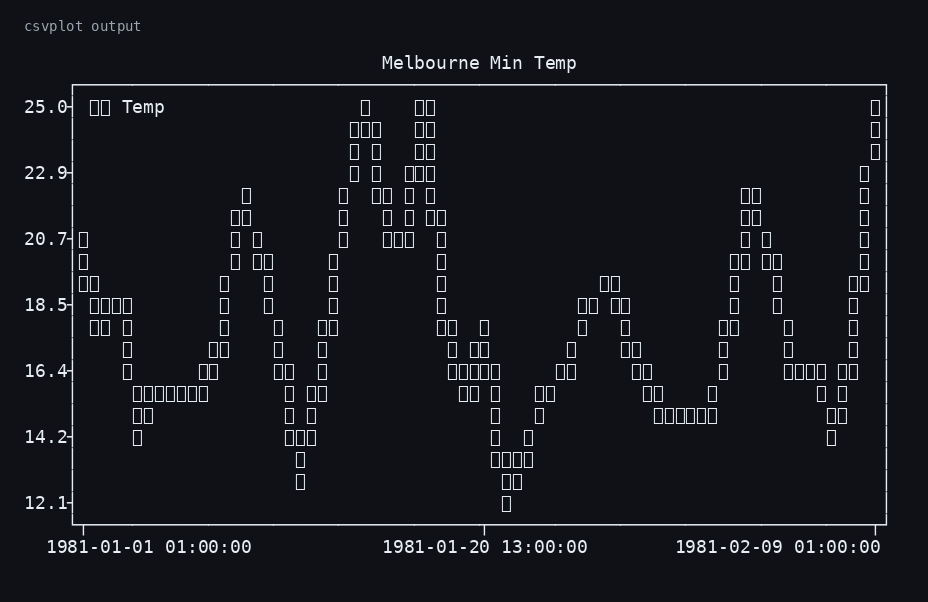
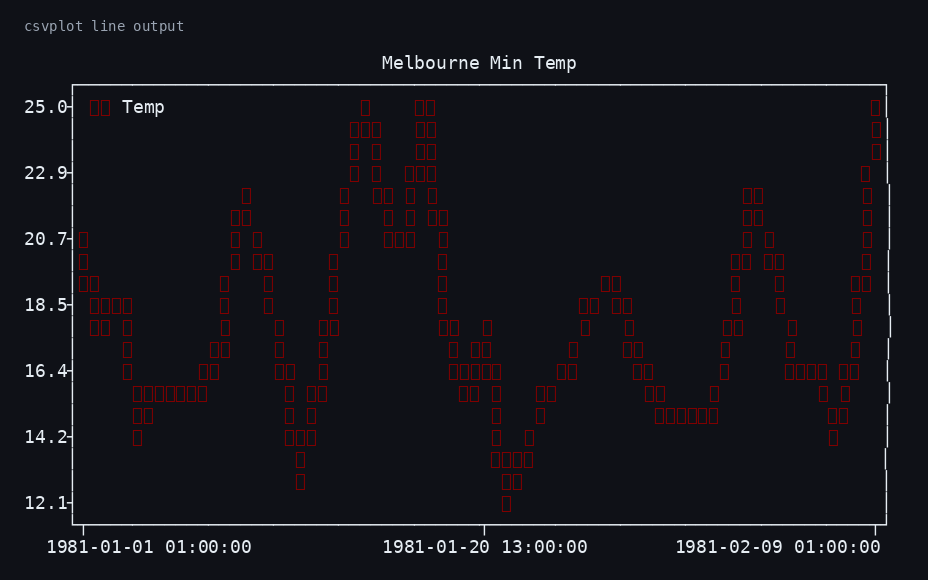
feat(images): render ansi colors in generated png artifacts

diff --git a/scripts/render_terminal_png.py b/scripts/render_terminal_png.py
@@ -1,12 +1,141 @@
 #!/usr/bin/env python3
-"""Render plain terminal text output into a dark-themed PNG image."""
+"""Render terminal text output (including ANSI colors) into a dark-themed PNG image."""
 
 from __future__ import annotations
 
 import argparse
+import re
 from pathlib import Path
 
 from PIL import Image, ImageDraw, ImageFont
+
+ANSI_RE = re.compile(r"\x1b\[([0-9;]*)m")
+DEFAULT_FG = "#e6edf3"
+ANSI_BASE_COLORS = {
+    30: "#0f1117",
+    31: "#ff6b6b",
+    32: "#50d890",
+    33: "#ffd166",
+    34: "#74c0fc",
+    35: "#c77dff",
+    36: "#64dfdf",
+    37: "#f1f3f5",
+    90: "#6c757d",
+    91: "#ff8787",
+    92: "#69db7c",
+    93: "#ffe066",
+    94: "#91a7ff",
+    95: "#da77f2",
+    96: "#66d9e8",
+    97: "#ffffff",
+}
+
+
+def xterm_256_to_hex(index: int) -> str:
+    if index < 0:
+        index = 0
+    if index > 255:
+        index = 255
+
+    basic = [
+        "#000000",
+        "#800000",
+        "#008000",
+        "#808000",
+        "#000080",
+        "#800080",
+        "#008080",
+        "#c0c0c0",
+        "#808080",
+        "#ff0000",
+        "#00ff00",
+        "#ffff00",
+        "#0000ff",
+        "#ff00ff",
+        "#00ffff",
+        "#ffffff",
+    ]
+    if index < 16:
+        return basic[index]
+
+    if index < 232:
+        i = index - 16
+        r = i // 36
+        g = (i % 36) // 6
+        b = i % 6
+        levels = [0, 95, 135, 175, 215, 255]
+        return f"#{levels[r]:02x}{levels[g]:02x}{levels[b]:02x}"
+
+    gray = 8 + (index - 232) * 10
+    return f"#{gray:02x}{gray:02x}{gray:02x}"
+
+
+def normalize_codes(raw_codes: str) -> list[int]:
+    if raw_codes == "":
+        return [0]
+    out: list[int] = []
+    for part in raw_codes.split(";"):
+        if part == "":
+            out.append(0)
+            continue
+        try:
+            out.append(int(part))
+        except ValueError:
+            continue
+    return out or [0]
+
+
+def apply_codes(codes: list[int], current_fg: str) -> str:
+    fg = current_fg
+    i = 0
+    while i < len(codes):
+        code = codes[i]
+        if code == 0 or code == 39:
+            fg = DEFAULT_FG
+        elif code in ANSI_BASE_COLORS:
+            fg = ANSI_BASE_COLORS[code]
+        elif code == 38:
+            if i + 1 < len(codes) and codes[i + 1] == 5 and i + 2 < len(codes):
+                fg = xterm_256_to_hex(codes[i + 2])
+                i += 2
+            elif i + 1 < len(codes) and codes[i + 1] == 2 and i + 4 < len(codes):
+                r = max(0, min(255, codes[i + 2]))
+                g = max(0, min(255, codes[i + 3]))
+                b = max(0, min(255, codes[i + 4]))
+                fg = f"#{r:02x}{g:02x}{b:02x}"
+                i += 4
+        i += 1
+    return fg
+
+
+def parse_ansi_line(line: str) -> list[tuple[str, str]]:
+    segments: list[tuple[str, str]] = []
+    cursor = 0
+    fg = DEFAULT_FG
+
+    for match in ANSI_RE.finditer(line):
+        start, end = match.span()
+        if start > cursor:
+            text = line[cursor:start]
+            if text:
+                segments.append((text, fg))
+        codes = normalize_codes(match.group(1))
+        fg = apply_codes(codes, fg)
+        cursor = end
+
+    if cursor < len(line):
+        tail = line[cursor:]
+        if tail:
+            segments.append((tail, fg))
+
+    if not segments:
+        segments.append(("", DEFAULT_FG))
+    return segments
+
+
+def visible_line_length(line: str) -> int:
+    clean = ANSI_RE.sub("", line)
+    return len(clean)
 
 
 def load_font(size: int) -> ImageFont.FreeTypeFont | ImageFont.ImageFont:
@@ -31,7 +160,7 @@ def text_size(font: ImageFont.ImageFont, text: str) -> tuple[int, int]:
     return right - left, bottom - top
 
 
-def render_png(text: str, output: Path) -> None:
+def render_png(text: str, output: Path, title: str) -> None:
     lines = text.splitlines() or [""]
     code_font = load_font(18)
     title_font = load_font(14)
@@ -39,7 +168,7 @@ def render_png(text: str, output: Path) -> None:
     sample_w, sample_h = text_size(code_font, "M")
     char_w = max(sample_w, 10)
     line_h = max(sample_h + 5, 22)
-    max_chars = max(len(line) for line in lines)
+    max_chars = max(visible_line_length(line) for line in lines)
 
     pad_x = 24
     pad_top = 52
@@ -49,11 +178,16 @@ def render_png(text: str, output: Path) -> None:
 
     img = Image.new("RGB", (width, height), "#0f1117")
     draw = ImageDraw.Draw(img)
-    draw.text((24, 18), "csvplot output", font=title_font, fill="#9aa4b2")
+    draw.text((24, 18), title, font=title_font, fill="#9aa4b2")
 
     y = pad_top
     for line in lines:
-        draw.text((pad_x, y), line, font=code_font, fill="#e6edf3")
+        x = pad_x
+        for segment, color in parse_ansi_line(line):
+            if segment:
+                draw.text((x, y), segment, font=code_font, fill=color)
+                seg_w, _ = text_size(code_font, segment)
+                x += seg_w
         y += line_h
 
     output.parent.mkdir(parents=True, exist_ok=True)
@@ -67,12 +201,12 @@ def main() -> None:
     parser.add_argument(
         "--title",
         default="csvplot output",
-        help="Compatibility flag; currently not rendered in PNG output.",
+        help="Title rendered in the image header.",
     )
     args = parser.parse_args()
 
     text = args.input.read_text(encoding="utf-8")
-    render_png(text, args.output)
+    render_png(text, args.output, args.title)
 
 
 if __name__ == "__main__":

diff --git a/README.md b/README.md
@@ -117,7 +117,7 @@ bash scripts/generate_design_review_images.sh
 
 - `assets/review/REPORT.md`
 
-5. For color behavior (for example bubble `--color`), review `visual` output checks, not semantic PNG snapshots.
+5. For color behavior (for example bubble `--color`), use the generated PNGs plus the visual output checks in `assets/review/raw/`.
 
 ## Output Modes
 
@@ -170,7 +170,7 @@ uv run mkdocs serve
 Uses `scripts/generate_readme_images.sh`, which:
 
 - runs the timeline/bar/line/bubble sample commands
-- captures semantic output
+- captures visual output (including ANSI colors)
 - renders PNGs into `assets/images/`
 
 ```bash
